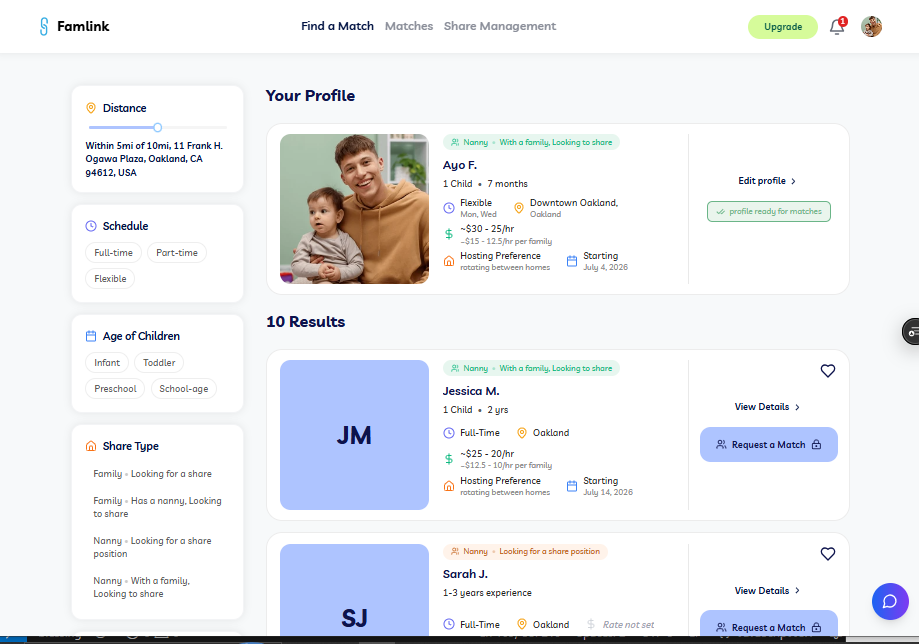
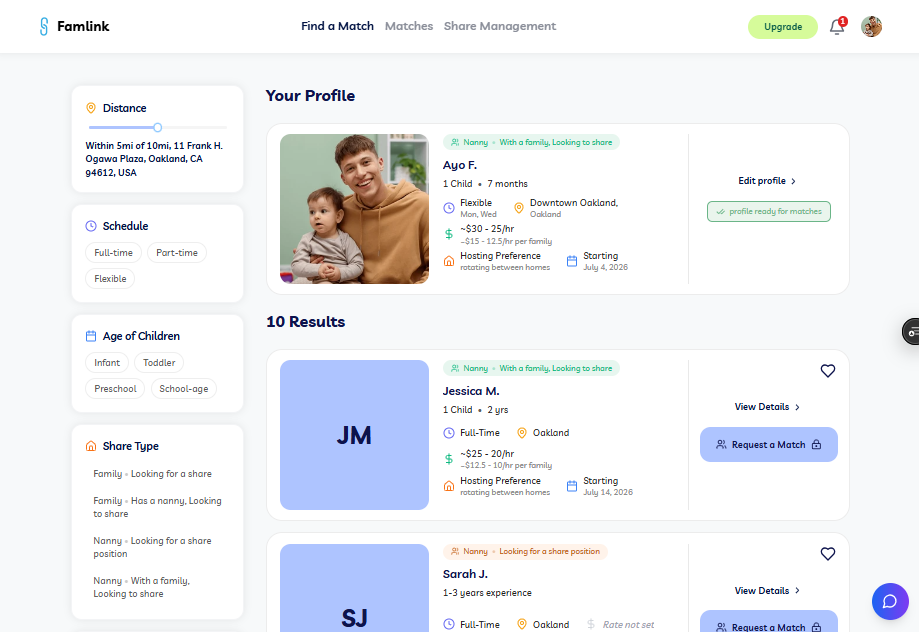
feat: update nannysharematch form

diff --git a/frontend/src/NewComponents/NannyShareMatchForm.jsx b/frontend/src/NewComponents/NannyShareMatchForm.jsx
@@ -489,43 +489,25 @@ const NannyShareMatchForm = () => {
       <div className="min-h-screen px-4 sm:px-6 lg:px-8 ">
         <div className="max-w-3xl mx-auto relative">
 
-          <div className="flex flex-col-reverse md:flex-row px-5 sm:px-8 md:px-10 md:flex-between md:items-start">
-            {/* Header */}
-            <div className="mb-6">
-              <div className="mb-3">
-                <h1 className="text-2xl sm:text-3xl md:text-4xl Livvic-Bold text-primary leading-tight">
-                  Hello Parents! 🏠
-                </h1>
-              </div>
-              <p className="text-gray-500 Livvic-Medium text-base sm:text-lg max-w-md mx-auto">
-                Let's get you started so you can find the right nanny share fit for your family
-              </p>
+          <div className="px-5 sm:px-8 md:px-10 text-center mb-6">
+            <h1 className="text-[28px] sm:text-[32px] font-black text-[#001243] mb-2 leading-tight">
+              Hello Parents! 🏠
+            </h1>
+            <p className="text-[14px] sm:text-[15px] font-normal text-[#6B7280] mb-6 max-w-md mx-auto">
+              Let's get you started so you can find the right nanny share fit for your family
+            </p>
+            <div className="flex items-center justify-center w-fit mx-auto bg-[#EEF2FF] rounded-full px-5 py-2.5 mt-0 border-none">
+              <User2 className="w-4 h-4 text-[#4F46E5] mr-2" />
+              <span className="font-normal text-[#374151] text-[14px]">
+                Need to set up a caregiver profile?
+              </span>
+              <NavLink
+                to="/caregiver/nannyshare"
+                className="font-bold underline text-[#001243] text-[14px] ml-1 hover:opacity-80 transition-opacity"
+              >
+                Click Here
+              </NavLink>
             </div>
-
-
-            {/* Caregiver banner */}
-            {/* Banner — stacks on mobile, floats right on lg+ */}
-            <div className="mb-4">
-              <div className="shadow-soft rounded-2xl bg-white py-4 px-6 w-fit">
-                <div className="flex items-center gap-3">
-                  <div className="flex items-center justify-center w-10 h-10 rounded-full bg-blue-50 shrink-0">
-                    <House className="w-5 h-5 text-[#AEC4FF]" />
-                  </div>
-                  <div>
-                    <p className="Livvic-SemiBold text-sm text-gray-700 leading-tight">
-                      Need to set up a caregiver profile?
-                    </p>
-                    <NavLink
-                      to="/caregiver/nannyshare"
-                      className="text-[#AEC4FF] Livvic-Medium text-sm hover:opacity-80 transition-opacity no-underline"
-                    >
-                      Click Here
-                    </NavLink>
-                  </div>
-                </div>
-              </div>
-            </div>
-
           </div>
 
           {/* Form card */}

diff --git a/frontend/src/NewComponents/Caregivers/ChooseNannyShare.jsx b/frontend/src/NewComponents/Caregivers/ChooseNannyShare.jsx
@@ -232,34 +232,24 @@ const ChooseNannyShare = () => {
       {/* Page wrapper */}
       <div className="min-h-screen bg-gray-50/50 px-4 sm:px-6 lg:px-8 py-8 sm:py-12">
         <div className="max-w-3xl mx-auto relative">
-          <div className='flex md:flex-row flex-col-reverse justify-between items-start px-5 sm:px-8 md:px-10'>
-            {/* Header */}
-            <div className="mb-6">
-              <h1 className="text-2xl sm:text-3xl md:text-4xl Livvic-Bold text-primary leading-tight mb-3">
-                Hello Caregivers! 👋
-              </h1>
-              <p className="text-gray-500 Livvic-Medium text-base sm:text-lg max-w-md mx-auto">
-                Let's get you started so you can find the right nanny share fit for you
-              </p>
-            </div>
-            {/* Banner — stacks on mobile, floats right on lg+ */}
-            <div className="flex justify-center mb-6 ">
-              <div className="shadow-soft rounded-2xl bg-white py-4 px-6 w-fit">
-                <div className="flex items-center gap-3">
-                  <div className="flex items-center justify-center w-10 h-10 rounded-full bg-blue-50 shrink-0">
-                    <Users className="w-5 h-5 text-[#AEC4FF]" />
-                  </div>
-                  <div>
-                    <p className="Livvic-SemiBold text-sm text-gray-700 leading-tight"> Need to set up a family profile?</p>
-                    <NavLink
-                      to="/find-nanny-share"
-                      className="text-[#AEC4FF] Livvic-Medium text-sm hover:opacity-80 transition-opacity no-underline"
-                    >
-                      Click Here
-                    </NavLink>
-                  </div>
-                </div>
-              </div>
+          <div className="px-5 sm:px-8 md:px-10 text-center mb-6">
+            <h1 className="text-[28px] sm:text-[32px] font-black text-[#001243] mb-2 leading-tight">
+              Hello Caregivers! 👋
+            </h1>
+            <p className="text-[14px] sm:text-[15px] font-normal text-[#6B7280] mb-6 max-w-md mx-auto">
+              Let's get you started so you can find the right nanny share fit for you
+            </p>
+            <div className="flex items-center justify-center w-fit mx-auto bg-[#EEF2FF] rounded-full px-5 py-2.5 mt-0 border-none">
+              <Users className="w-4 h-4 text-[#4F46E5] mr-2" />
+              <span className="font-normal text-[#374151] text-[14px]">
+                Need to set up a family profile?
+              </span>
+              <NavLink
+                to="/find-nanny-share"
+                className="font-bold underline text-[#001243] text-[14px] ml-1 hover:opacity-80 transition-opacity"
+              >
+                Click Here
+              </NavLink>
             </div>
           </div>
 
